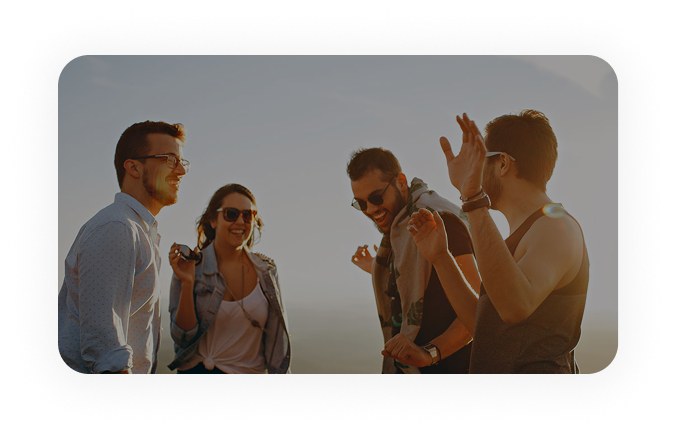
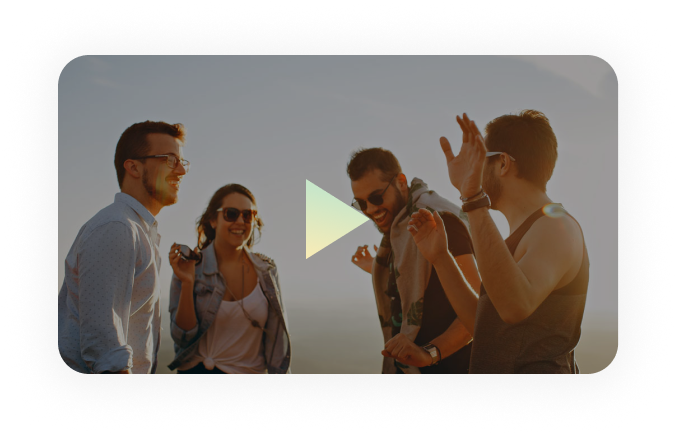
Create Left Section LeftMainAbout

Changed region(s): [[0.4343, 0.4184, 0.5583, 0.5977]]

diff --git a/src/component/Ui/Moloculs/LeftMainAboutPage/LeftMainAboutPage.jsx b/src/component/Ui/Moloculs/LeftMainAboutPage/LeftMainAboutPage.jsx
@@ -4,18 +4,20 @@ import P from "../../Atoms/P/P";
 
 function LeftMainAboutPage() {
     return (
-        <div className="w-1/2 flex justify-between items-start flex-col h-full bg-green-400">
-            <div>
-                <Icons Name={'Lock'} />
+        <div className="w-1/2 flex justify-between items-start flex-col h-full">
+            <div className="w-full h-[40%] flex justify-between items-start flex-col gap-5 pl-8">
+                <div>
+                    <Icons Name={'Lock'} />
+                </div>
+                <div>
+                    <P className={"text-[3.2vw] font-bold"}>Pellentesque ac tortor</P>
+                </div>
+                <div>
+                    <P className={"text-[1.4vw] text-[#585981DE] w-[90%]"}>Cras convallis lacus orci, tristique tincidunt magna consequat in. In vel pulvinar est.</P>
+                </div>
             </div>
-            <div>
-                <P>Pellentesque ac tortor</P>
-            </div>
-            <div>
-                <P>Cras convallis lacus orci, tristique tincidunt magna consequat in. In vel pulvinar est.</P>
-            </div>
-            <div className="w-full h-2/3">
-                <Img className={"w-full h-full"} src={"./image/Video1.png"} />
+            <div className="w-full h-[65%] relative mt-5">
+                <Img className={"w-full h-full absolute -bottom-10 -left-8"} src={"./image/Video1.png"} />
             </div>
         </div>
     )

diff --git a/src/component/Ui/Organims/MainAboutPage/MainAboutPage.jsx b/src/component/Ui/Organims/MainAboutPage/MainAboutPage.jsx
@@ -2,7 +2,7 @@ import LeftMainAboutPage from "../../Moloculs/LeftMainAboutPage/LeftMainAboutPag
 
 function MainAboutPage() {
     return (
-        <div className="w-[90%] h-[450px]  mx-auto flex justify-center items-center my-10">
+        <div className="w-[90%] h-[500px]  mx-auto flex justify-center items-center my-10">
             <LeftMainAboutPage />
             <div className="w-1/2 bg-red-500 h-full"></div>
         </div>

diff --git a/src/Core/constans/Array.js b/src/Core/constans/Array.js
@@ -1,6 +1,6 @@
 export const NavBarList = [
     {id: 1 , title: 'HOME' , Link: '/'},
     {id: 1 , title: 'MARKET' , Link: '/market'},
-    {id: 1 , title: 'ABOUT US' , Link: '/about'},
+    {id: 1 , title: 'ABOUT US' , Link: '/AboutUs'},
     {id: 1 , title: 'CONTACT US' , Link: '/contact'},
 ]
